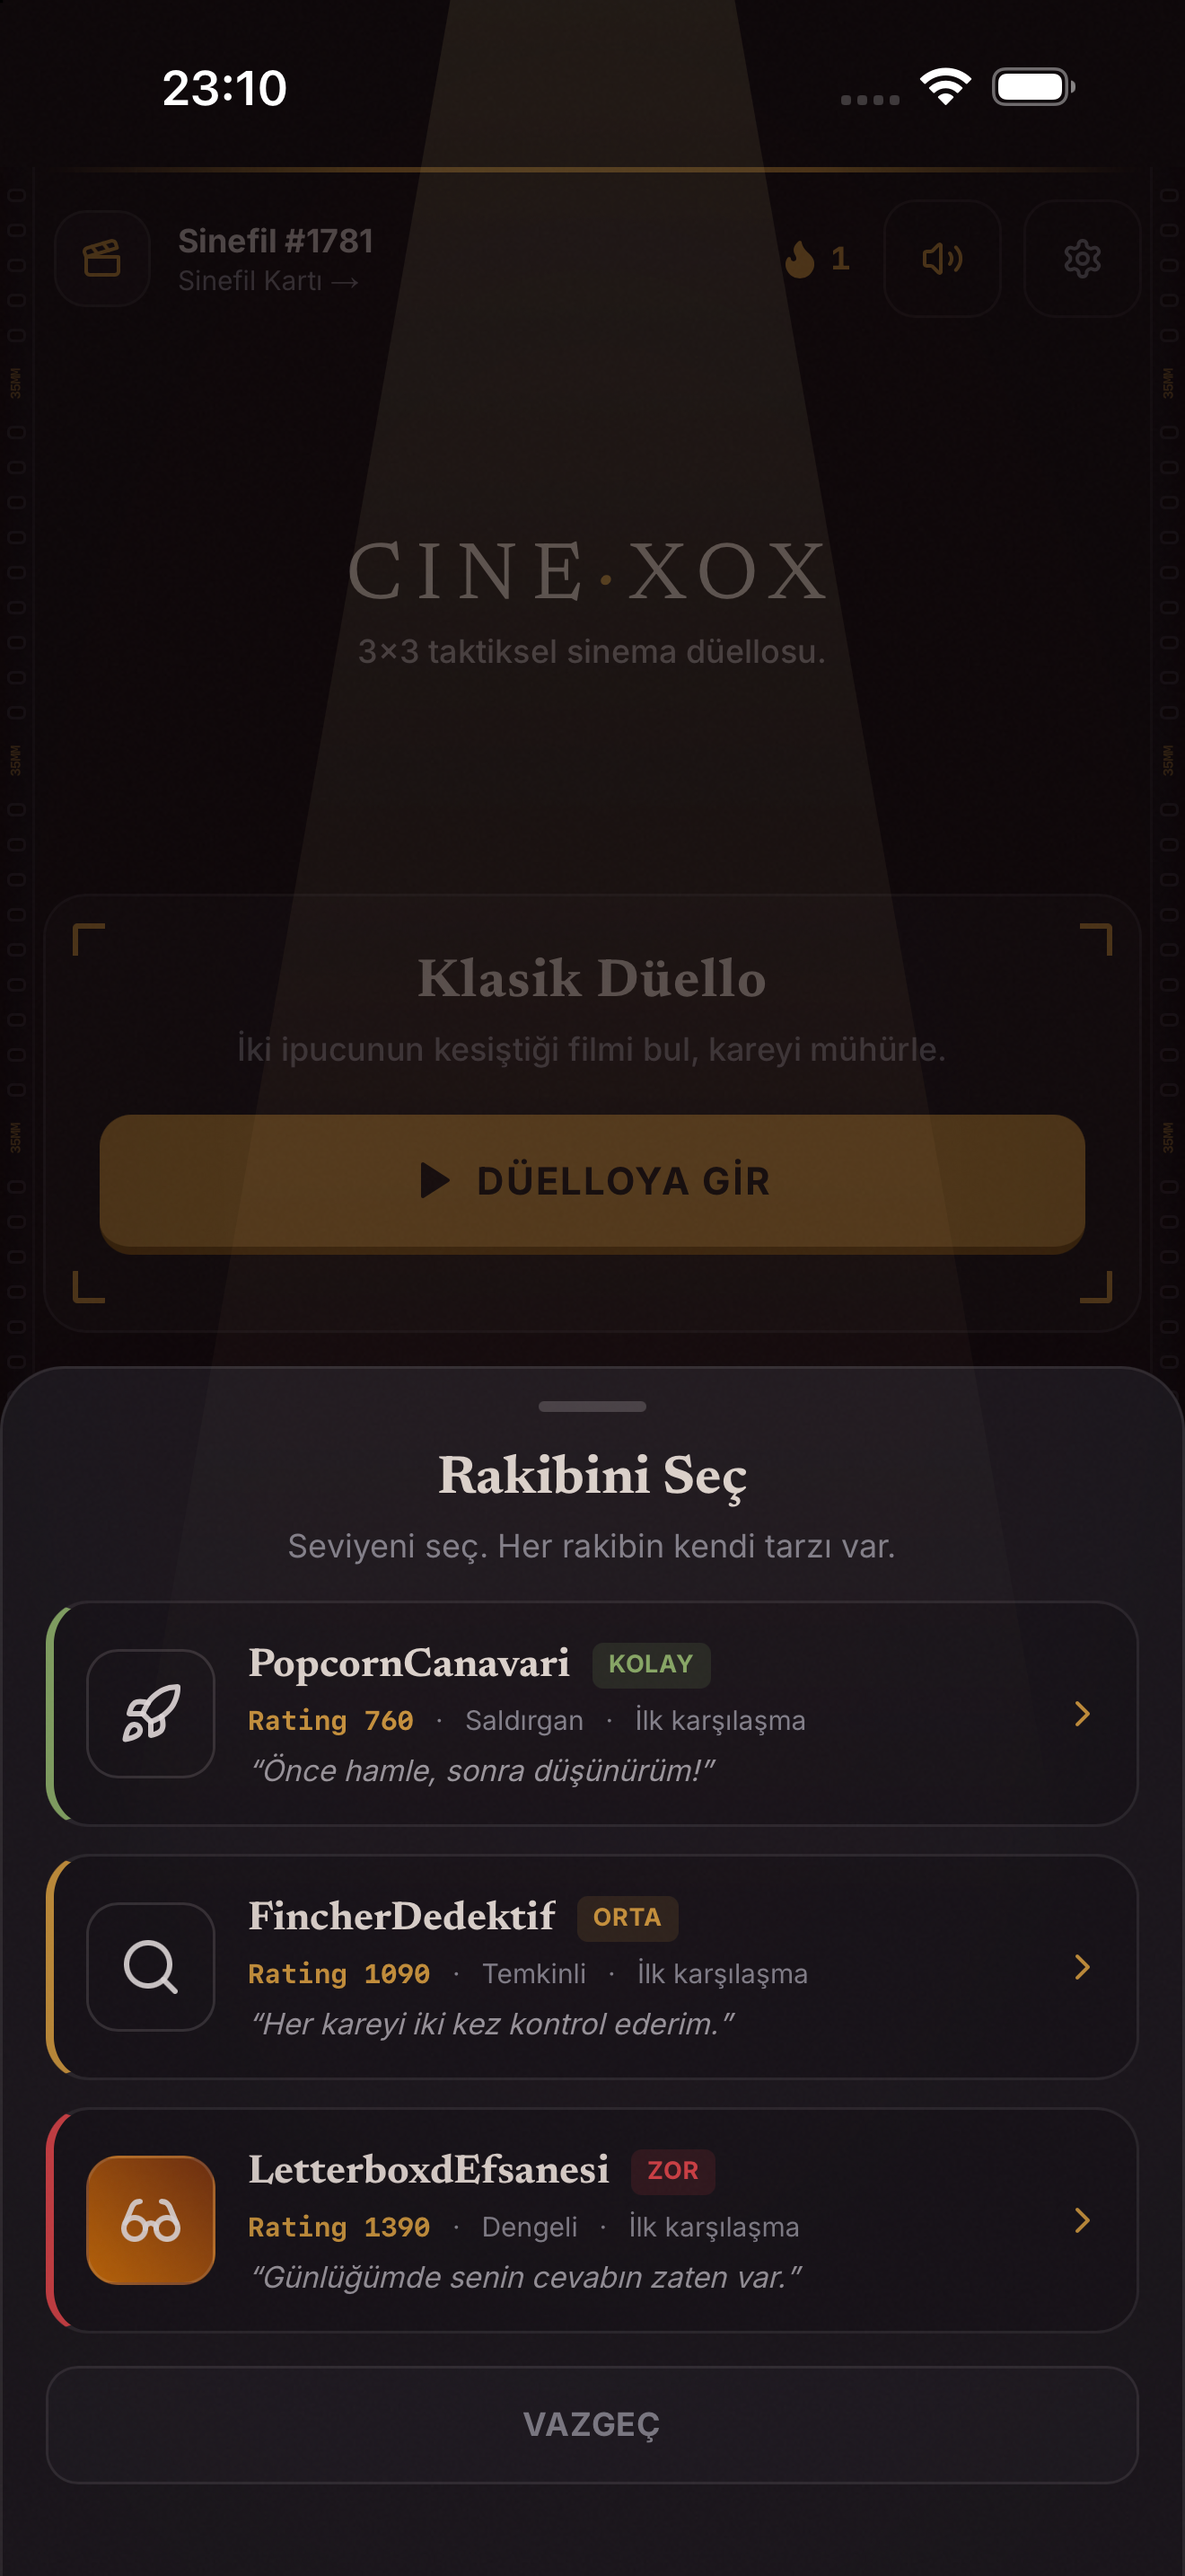
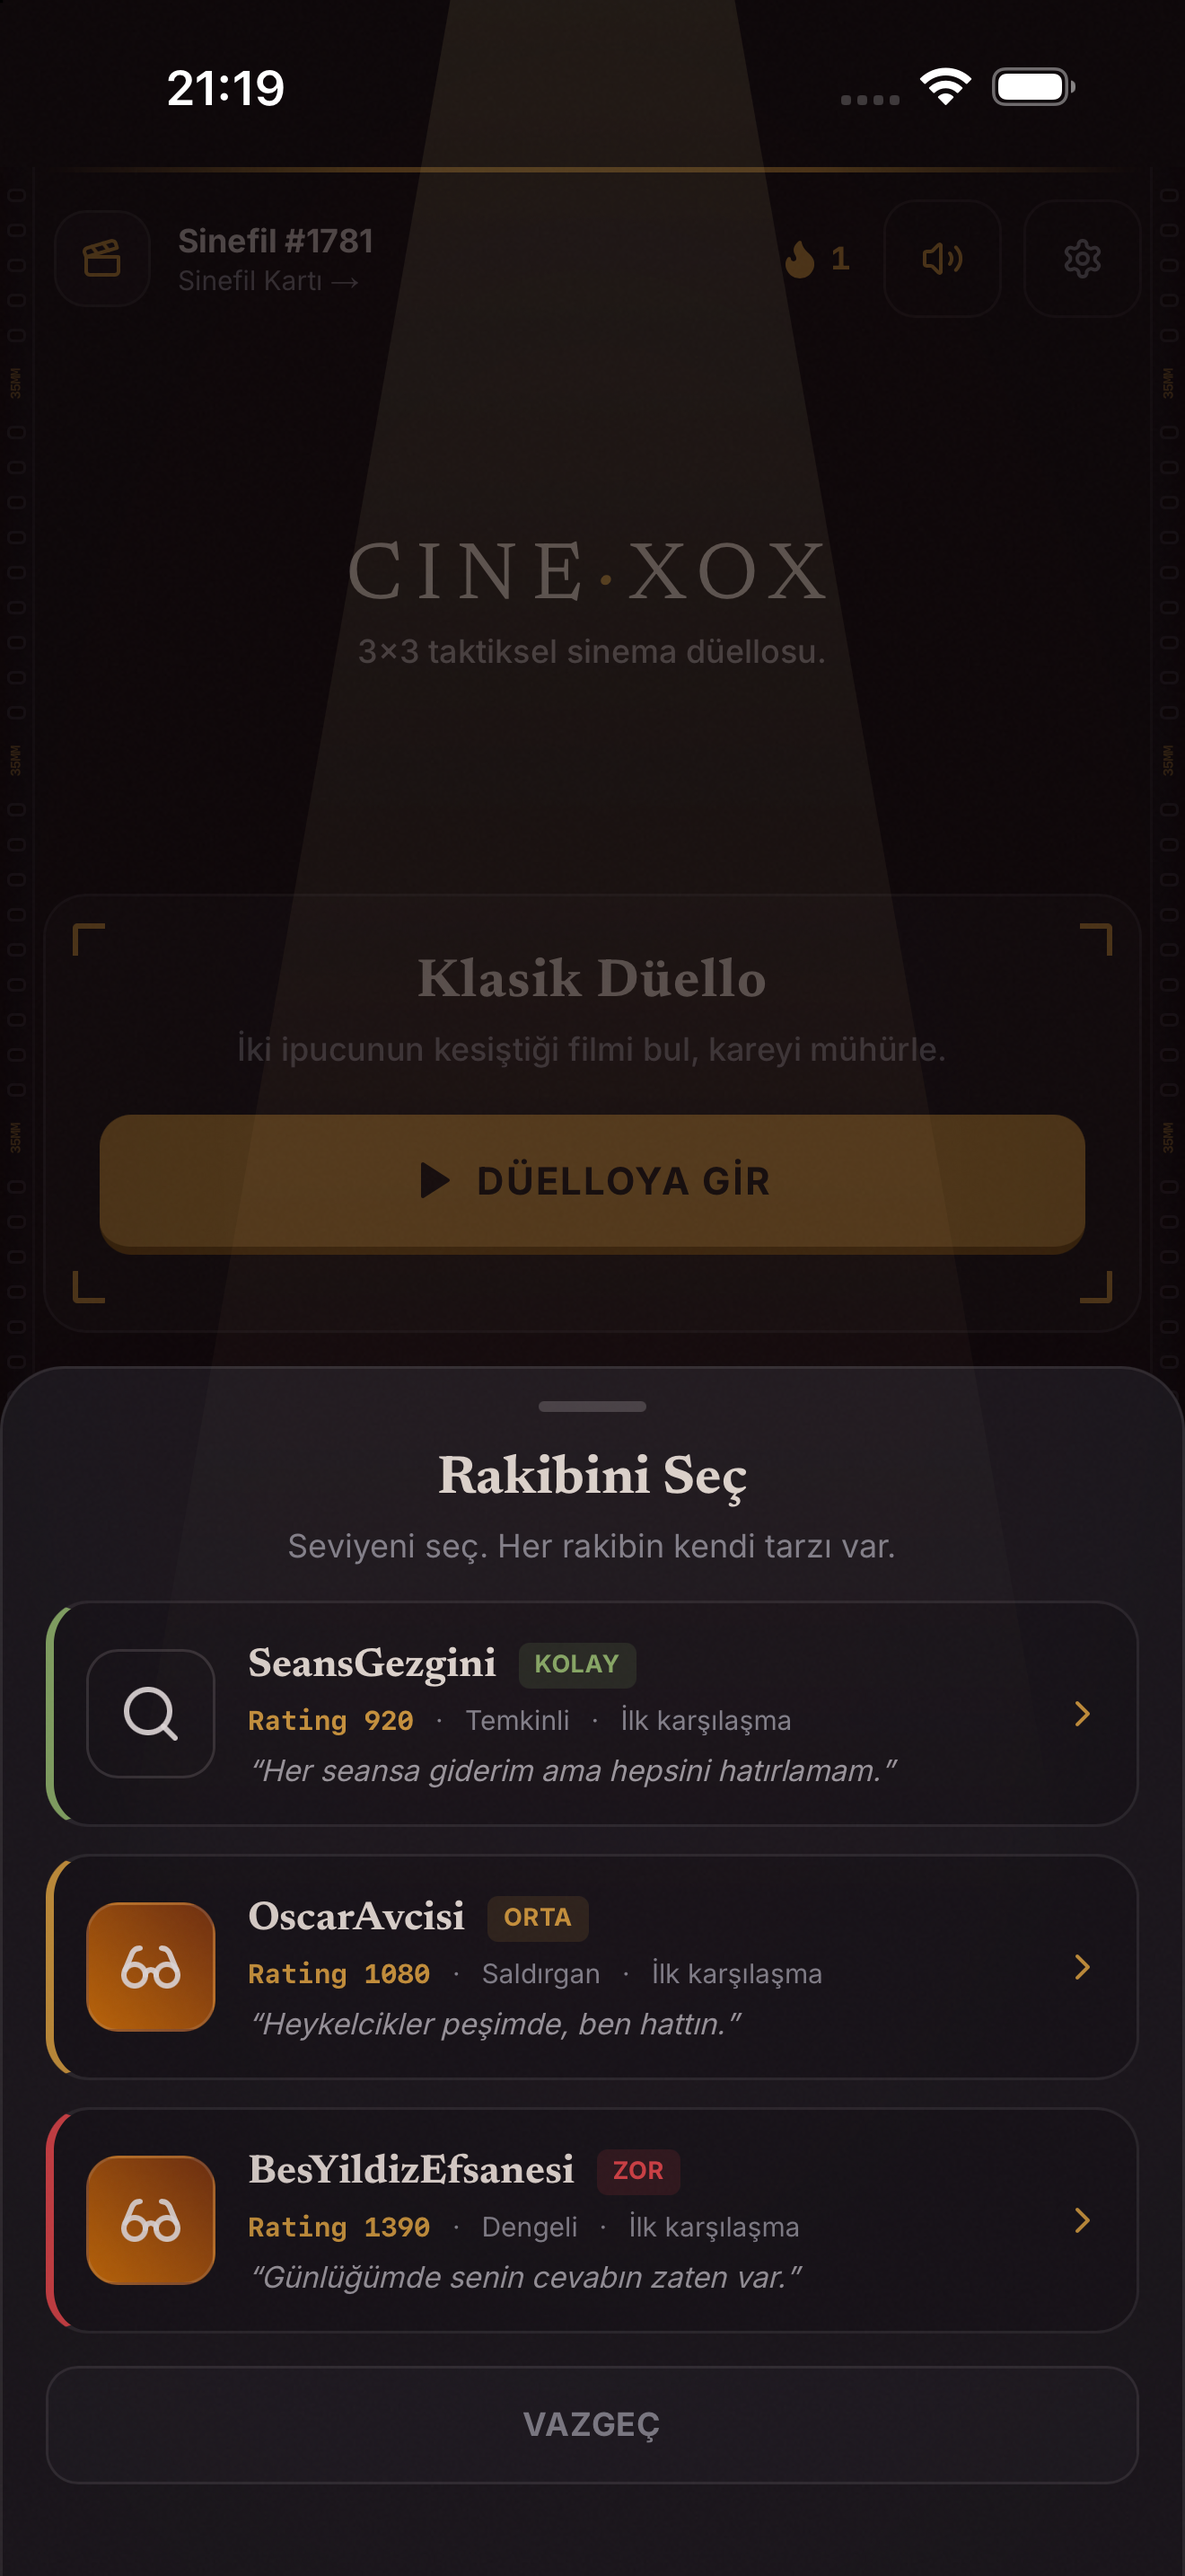
chore(app-store): new screenshots without third-party brand, no parenthetical English in TR labels

diff --git a/src/i18n/criteria.ts b/src/i18n/criteria.ts
@@ -125,7 +125,9 @@ export function translateBoardTitle(title: string, locale: Locale): string {
 }
 
 export function translateCriterionLabel(label: string, locale: Locale): string {
-  if (locale === "tr") return label;
+  // TR: parantezli İngilizce eklemeler yasak (tasarım anayasası 1.2): "Suç (Crime)" -> "Suç".
+  // Yalnızca ASCII parantez eki silinir; Türkçe karakterli ekler ("Batman Begins (Batman Başlıyor)") korunur.
+  if (locale === "tr") return label.replace(/\s*\([A-Za-z0-9 .'&-]+\)\s*$/, "");
   return CRITERIA_LABELS_EN[label] || label;
 }
 
